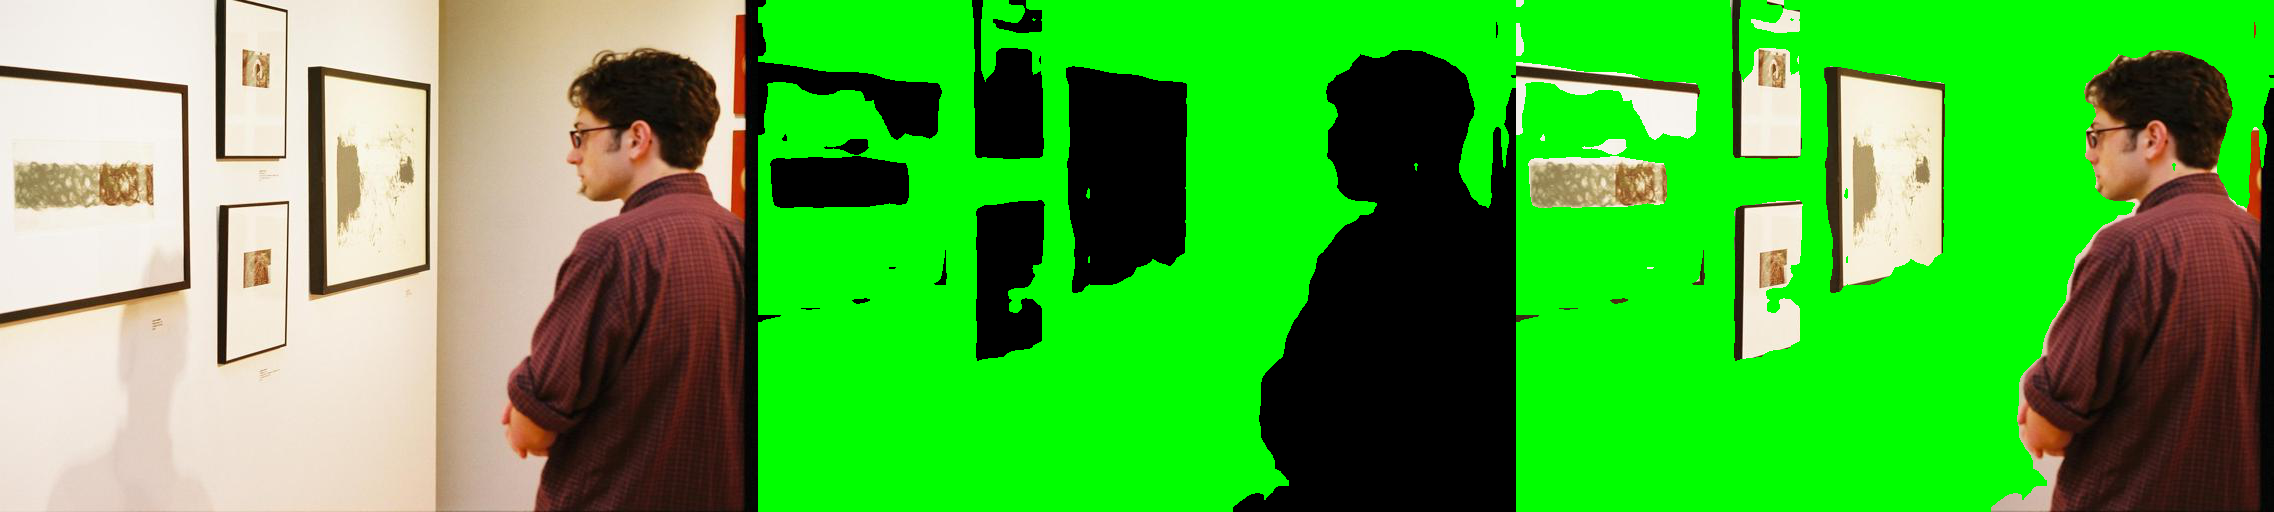
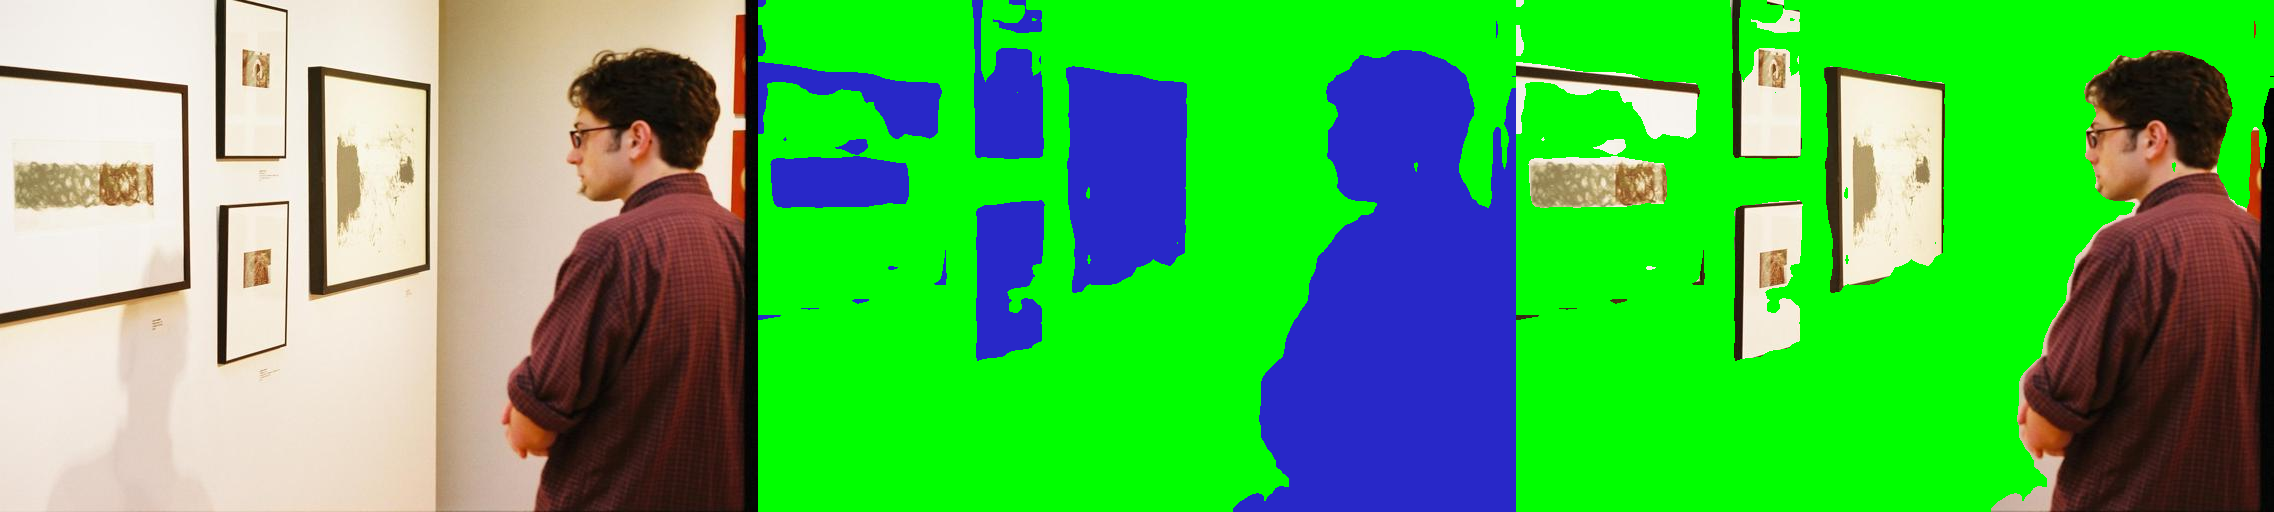
chore (readme): Updated validation results and images

diff --git a/README.md b/README.md
@@ -64,10 +64,10 @@ module was trained from start on the images of interest.
 
 Mean values of pixel accuracy and IoU on validation subset (only on images of interest) are given in the table.
 
-|                  |  First approach  | Second approach  |  Third approach  |
-|:----------------:|:----------------:|:----------------:|:----------------:|
-|Pixel accuracy [%]|      84.82       |      86.24       |      90.39       |
-|IoU [%]           |      56.87       |      59.08       |      68.79       |
+|                  |  First approach  | Second approach  | Third approach |
+|:----------------:|:----------------:|:----------------:|:--------------:|
+|Pixel accuracy [%]|      84.82       |      86.24       |     90.75      |
+|IoU [%]           |      56.87       |      59.08       |     69.05      |
 
 First approach: <br/> 
 ![Result obtained using first approach](./readme_supplementary/First_approach.png)<br/> <br/> 
